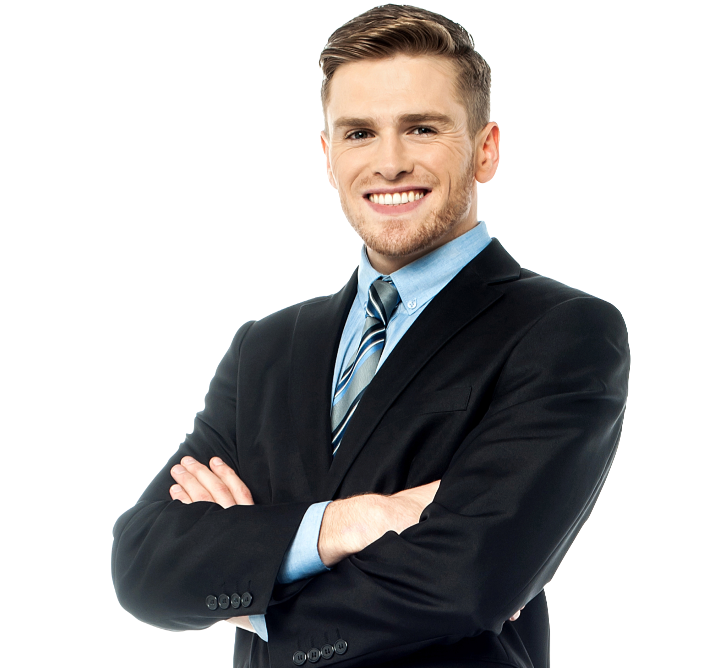
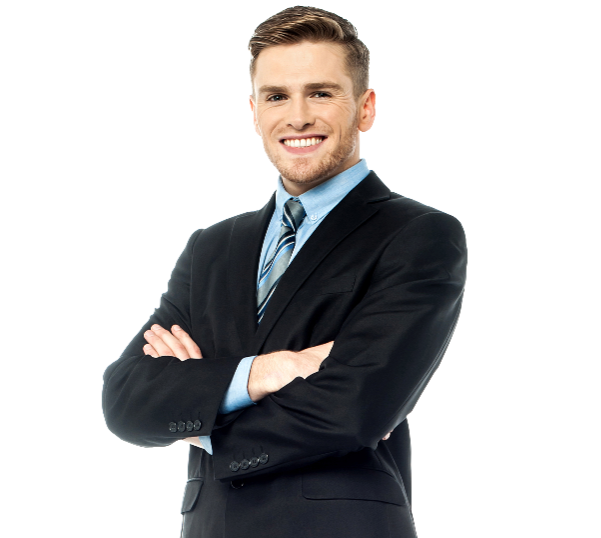
made content  responsive to all kind of mobile phones and tablets

Changed region(s): [[0.1498, 0.0, 0.8985, 1.0], [0.629, 0.4758, 0.6589, 0.5056]]

diff --git a/Style.css b/Style.css
@@ -131,6 +131,26 @@ nav .menu-link{
     left: 0;
     z-index: 9;
   }
+  .portfolio{
+    flex-direction: column;
+    justify-self:center;
+    justify-content: center;
+    padding-top: 10vh;
+    gap: 5rem;
+    margin: auto;
+    padding-bottom: 5vh;
+  }
+  .Profile-picture{
+   height: 100%;
+   width: 100%;
+  }
+  .text-p{
+    text-align: center;
+  }
+  .content{
+    text-align: center;
+    margin-bottom: 2rem;
+  }
 }
 /* Home page content */
 .portfolio{
@@ -146,8 +166,9 @@ nav .menu-link{
   display: flex;
   height: 500px;
   width: 500px;
+  justify-content: space-around;
   margin: auto 0 ;
-  margin-left: 2rem;
+  /* margin-left: 2rem; */
 }
 .content{
   align-self: center;
@@ -191,4 +212,54 @@ nav .menu-link{
   background: #333;
   border-color: aliceblue;
   color: white;
+}
+/* Responsive design for Tablets and  lager mobile phones for the content*/
+@media screen and (max-width: 1220px) and (min-width: 660px) {
+  .portfolio{
+    flex-direction: column;
+    justify-self:center;
+    justify-content: space-between;
+    padding-top: 10vh;
+    gap: 5rem;
+    margin: auto;
+    padding-bottom: 5vh;
+  }
+  .Profile-picture{
+   height: 100%;
+   width: 100%;
+  }
+  .text-p{
+    text-align: center;
+  }
+  .content{
+    text-align: center;
+    margin-bottom: 2rem;
+  }
+}
+/*  Responsive design for smaller screen mobile phones*/
+@media screen and (max-width: 480px) {
+  .portfolio{
+    flex-direction: column;
+    justify-self:center;
+    justify-content: center;
+    padding-top: 10vh;
+    gap: 0rem;
+    margin: auto;
+    padding-bottom: 5vh;
+  }
+  .Profile-picture{
+   height: 90%;
+   width: 100%;
+  }
+  .Profile-picture img{
+    width: 100%;
+    height: 80%;
+  }
+  .text-p{
+    text-align: center;
+  }
+  .content{
+    text-align: center;
+    margin-bottom: 2rem;
+  }
 }
